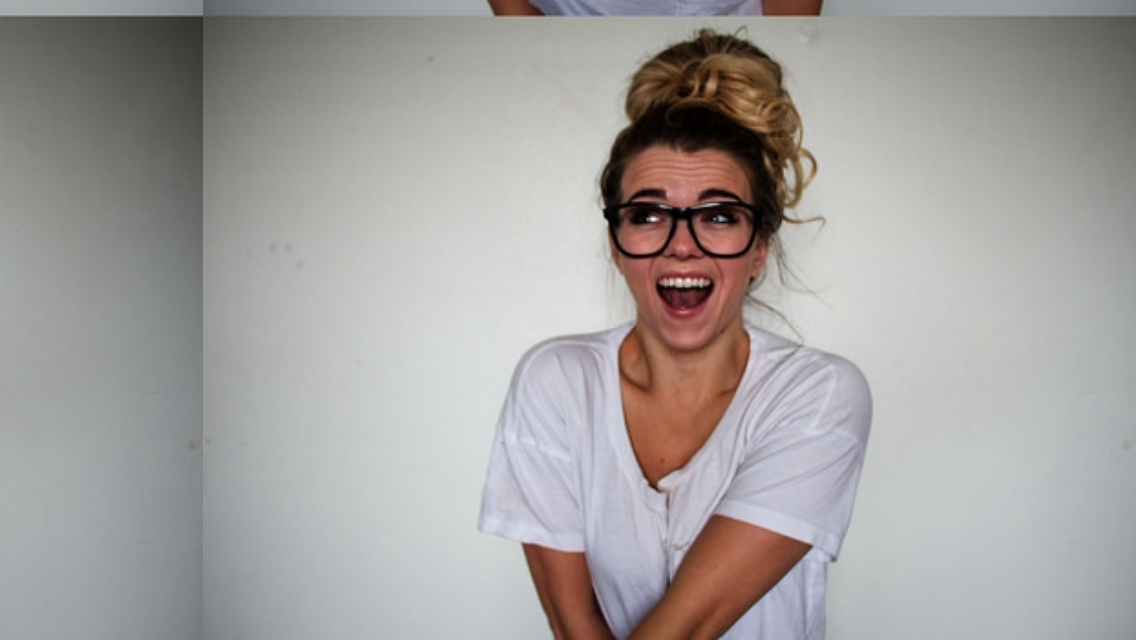
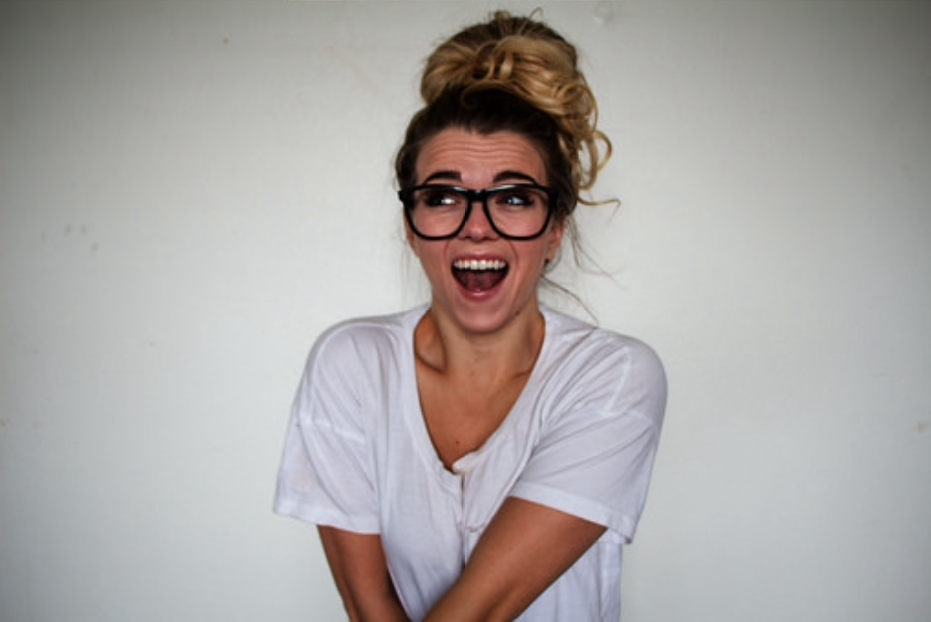
Initial section setup

diff --git a/index.html b/index.html
@@ -15,6 +15,7 @@ https://codepen.io/bootstrapped/pen/KwYGwq
     <link rel="stylesheet" href="css/style.css">
   </head>
   <body>
+
 	<nav class="navbar navbar-inverse navbar-static-top">
 	  <div class="container-fluid">
 	    <div class="navbar-header">
@@ -24,7 +25,7 @@ https://codepen.io/bootstrapped/pen/KwYGwq
 	        <span class="icon-bar"></span> 
 	      </button>
 	      <a class="navbar-brand" width="50" height="30" href="#">
-	      		<img src="images/icon-small-white.png" alt="Kaitlyn Dornbier">
+	      		<img src="images/icon-small.png" alt="Kaitlyn Dornbier">
 	      </a>
 	    </div>
 	    <div class="collapse navbar-collapse" id="header-menu">
@@ -39,10 +40,38 @@ https://codepen.io/bootstrapped/pen/KwYGwq
 	  </div>
 	</nav>
     
-	<div class="masthead">
-	 	
+	<div class="jumbotron jumbotron-fluid" id="home">
+	    <img src="images/IMG_1637.JPG">
 	</div>
 
+    <div class="jumbotron jumbotron-fluid" id="about">
+	  <div class="container">
+	    <h1 class="display-3">About</h1>
+	    <p class="lead">This is a modified jumbotron that occupies the entire horizontal space of its parent.</p>
+	  </div>
+	</div>
+
+	<div class="jumbotron jumbotron-fluid" id="resume">
+	  <div class="container">
+	    <h1 class="display-3">Resume</h1>
+	    <p class="lead">This is a modified jumbotron that occupies the entire horizontal space of its parent.</p>
+	  </div>
+	</div>
+
+	<div class="jumbotron jumbotron-fluid" id="skills">
+	  <div class="container">
+	    <h1 class="display-3">Skills</h1>
+	    <p class="lead">This is a modified jumbotron that occupies the entire horizontal space of its parent.</p>
+	  </div>
+	</div>
+
+	<div class="jumbotron jumbotron-fluid" id="contact">
+	  <div class="container">
+	    <h1 class="display-3">Contact</h1>
+	    <p class="lead">This is a modified jumbotron that occupies the entire horizontal space of its parent.</p>
+	  </div>
+	</div>
+	
     <!-- Optional JavaScript -->
     <!-- jQuery first, then Popper.js, then Bootstrap JS -->
     

diff --git a/css/style.css b/css/style.css
@@ -3,11 +3,13 @@
 }
 
 .navbar {
+	position: absolute;
+	width: 100%;
 	margin-bottom:0px;
 	background:rgba(0,0,0,0.5);
-	/*background-color: transparent;
-  background: transparent;
-  border-color: transparent;*/
+	background-color: transparent;
+  	background: transparent;
+  	border-color: transparent;
 }
 
 .navbar-brand {
@@ -23,17 +25,45 @@
   color: #ffffff;
 }
 
+a, .navbar-inverse .navbar-nav>li>a { color: black;
+}
+
 .nav >li >a {
   padding-top: 20px;
   padding-bottom: 20px;
 }
 
-.masthead {
-  position: absolute;
+.jumbotron {
+	margin: 0;
+}
+
+#home {
+ /* position: absolute;
   top: 0;
   left: 0;
   width: 100%;
-  height: 100%;
-  background: url(../images/IMG_1637.JPG) no-repeat 50% 50% / cover;
+  height: 100%;*/
   background-color: #f9cac0;
+  padding: 0;
+  width:100%;
+}
+
+#home>img{
+	width:100%;
+}
+
+#about {
+  	background-color: #f9cac0;
+}
+
+#resume {
+	background-color:green;
+}
+
+#skills {
+	background-color:yellow;
+}
+
+#contact {
+	background-color: gray;
 }
